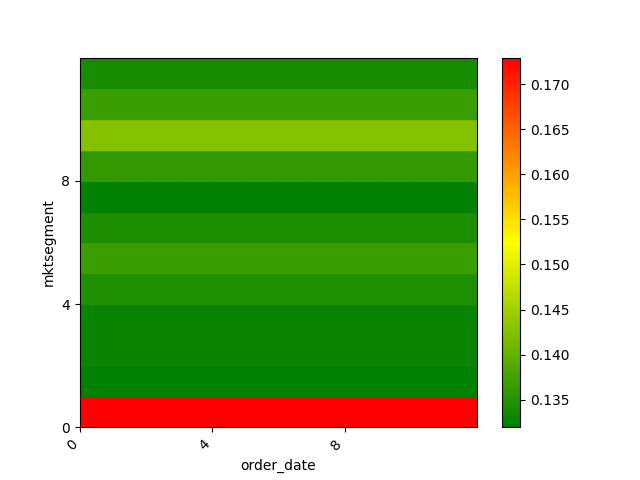
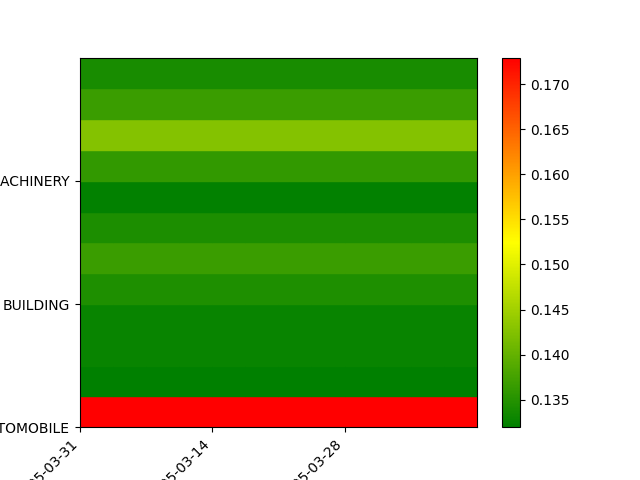
[update] heatmap3

diff --git a/heatmap3.py b/heatmap3.py
@@ -3,7 +3,7 @@ import matplotlib.pyplot as plt
 import matplotlib as mpl
 import numpy as np
 from matplotlib.colors import LinearSegmentedColormap
-from utils import csv_to_data_list
+from utils import csv_to_data_list, csv_to_values_list
 # source file
 FILE = 'results/3.csv'
 
@@ -34,16 +34,17 @@ plt.ylim(0,axis_len)
 plt.xlim(0,axis_len)
 
 
-# define explicit labels for the x axis
-#values = ['1992-04-01', '1992-07-01', '1992-10-01', '1993-01-01', '1993-04-01', '1993-07-01', '1993-10-01', '1994-01-01', '1994-04-01', '1994-07-01', '1994-10-01', '1995-01-01', '1995-04-01', '1995-07-01', '1995-10-01', '1996-01-01', '1996-04-01', '1996-07-01', '1996-10-01', '1997-01-01', '1997-04-01', '1997-07-01', '1997-10-01', '1998-01-01', '1998-04-01', '1998-07-01', '1998-10-01', '1999-01-01']
+# define explicit labels for the x and y axis
+values_x = csv_to_values_list(FILE)[0]
+values_y = csv_to_values_list(FILE)[1]
 
 ax.set_xticks(list(range(0, axis_len, 4)))
-#ax.set_xticklabels(values[0:axis_len:4])
+ax.set_xticklabels(values_x[0:axis_len:4])
 ax.set_xlabel('order_date')
 plt.xticks(rotation=45, ha='right')
 
 ax.set_yticks(list(range(0, axis_len, 4)))
-#ax.set_yticklabels(values[0:axis_len:4])
+ax.set_yticklabels(values_y[0:axis_len:4])
 ax.set_ylabel('mktsegment')
 
 plt.colorbar(mpl.cm.ScalarMappable(norm=norm, cmap=cmap), ax=ax)
